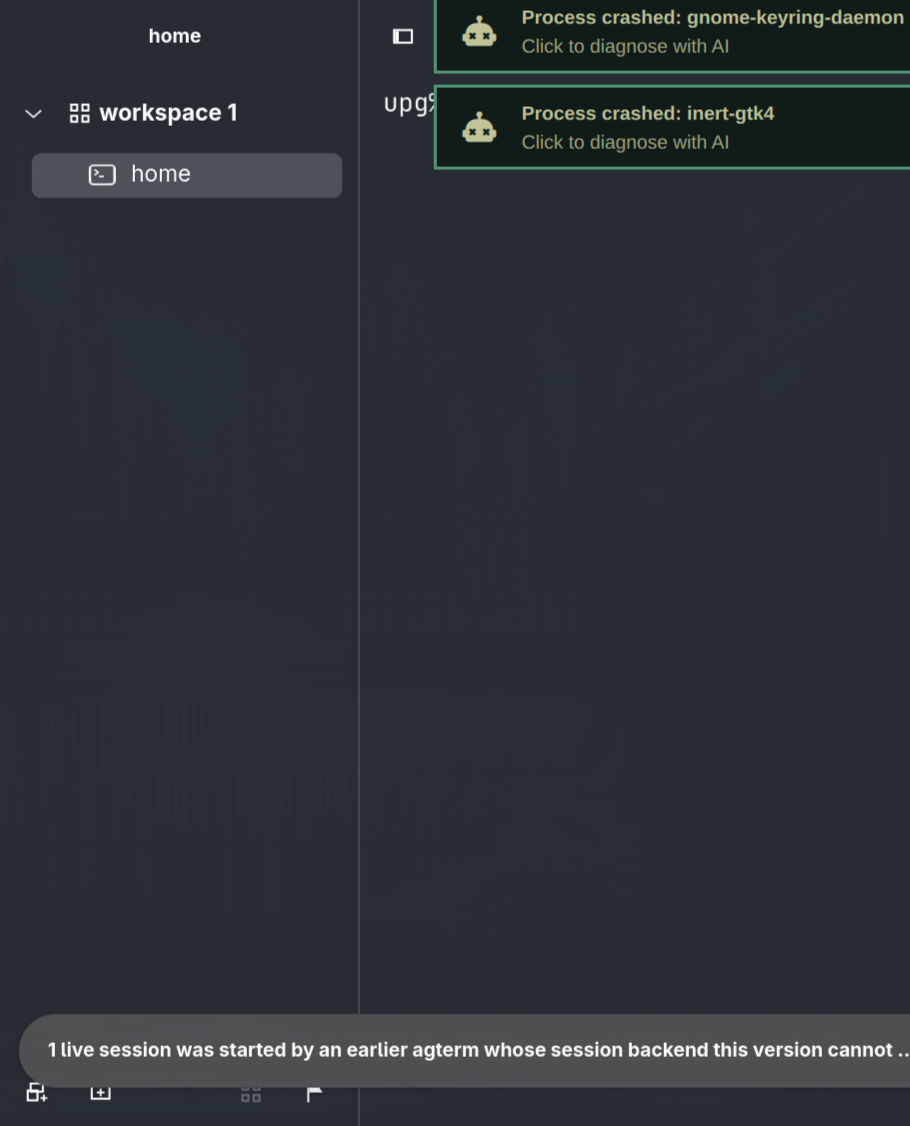
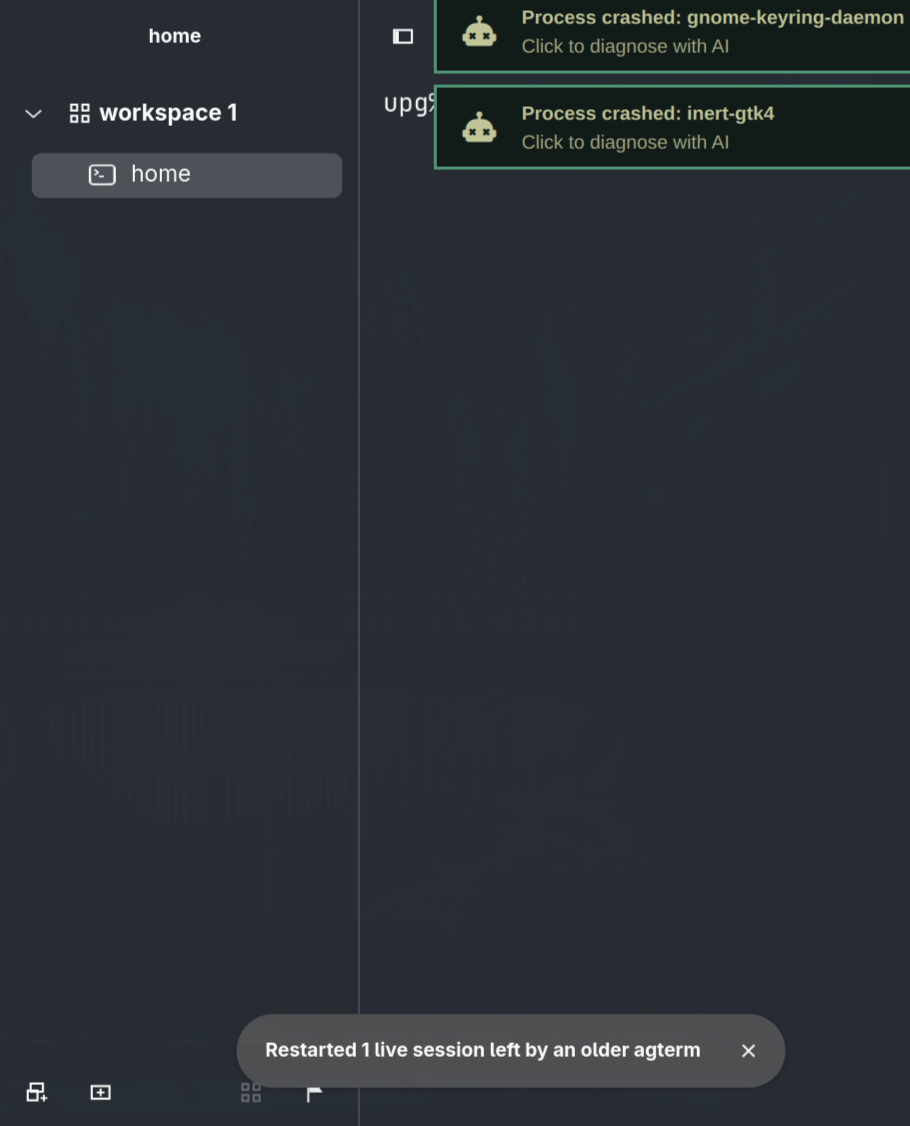
docs(evidence): the shortened upgrade-reset toast on the native run

Changed region(s): [[0.0, 0.9014, 1.0, 0.9636]]

diff --git a/docs/evidence/zmx-v1-upgrade-2026-11-17/README.md b/docs/evidence/zmx-v1-upgrade-2026-11-17/README.md
@@ -16,6 +16,7 @@ and lists the daemons.
[4 lines of base64/hex data omitted]
 
 ## Before the fix: a blank pane that takes no input
 
@@ -28,16 +29,18 @@ The cause is the IPC header: v1 cannot frame anything the old daemon sends, and 
 
 ## After the fix: the session is reset and works
 
+Same result on both fixed payloads; the last run (`b812a6ec`) is the one pictured.
+
 - zmx v1 lists the old daemon as `err=IncompatibleProtocol` (zmx patch 0007).
 - Before any pane spawned, the app found the old daemon (pid with no controlling terminal, `tty_nr=0`), ended it
   with SIGTERM, and logged `Live reset at launch: 1 pane(s) on an incompatible zmx; ended 1 daemon(s), 0 still running`.
   The old daemon's own log shows a clean shutdown and its shell got SIGHUP.
 - The pane restored on a new daemon: typing executed (new shell pid) and read back.
 - `tree` and `zmx list` read back `liveReset.last` = panes confirmed 1, killed 1; sessions affected 1, reset 1.
-- The first window showed a toast ([after-fix-reset-toast.png](after-fix-reset-toast.png)). That run carried
-  the first wording, which the 910 px window truncated. The notice was then shortened to
-  `Restarted 1 live session left by an older agterm`, which the unit test pins.
-- The window mapped 1.2 s after spawn and the control socket answered at 3.0 s.
+- The first window showed `Restarted 1 live session left by an older agterm` as a toast
+  ([after-fix-reset-toast.png](after-fix-reset-toast.png)). The first wording, on `668156a3`, was cut off on
+  this 910 px window; this one fits.
+- The window mapped about 1.25 s after spawn, and the control socket answered by about 3.1 s.
 
 What is lost: whatever ran inside the old Live session. Its daemon could not be reattached by any v1 client,
 so ending it is the only way to give the pane back; in Re-run commands mode the captured command is pre-filled
